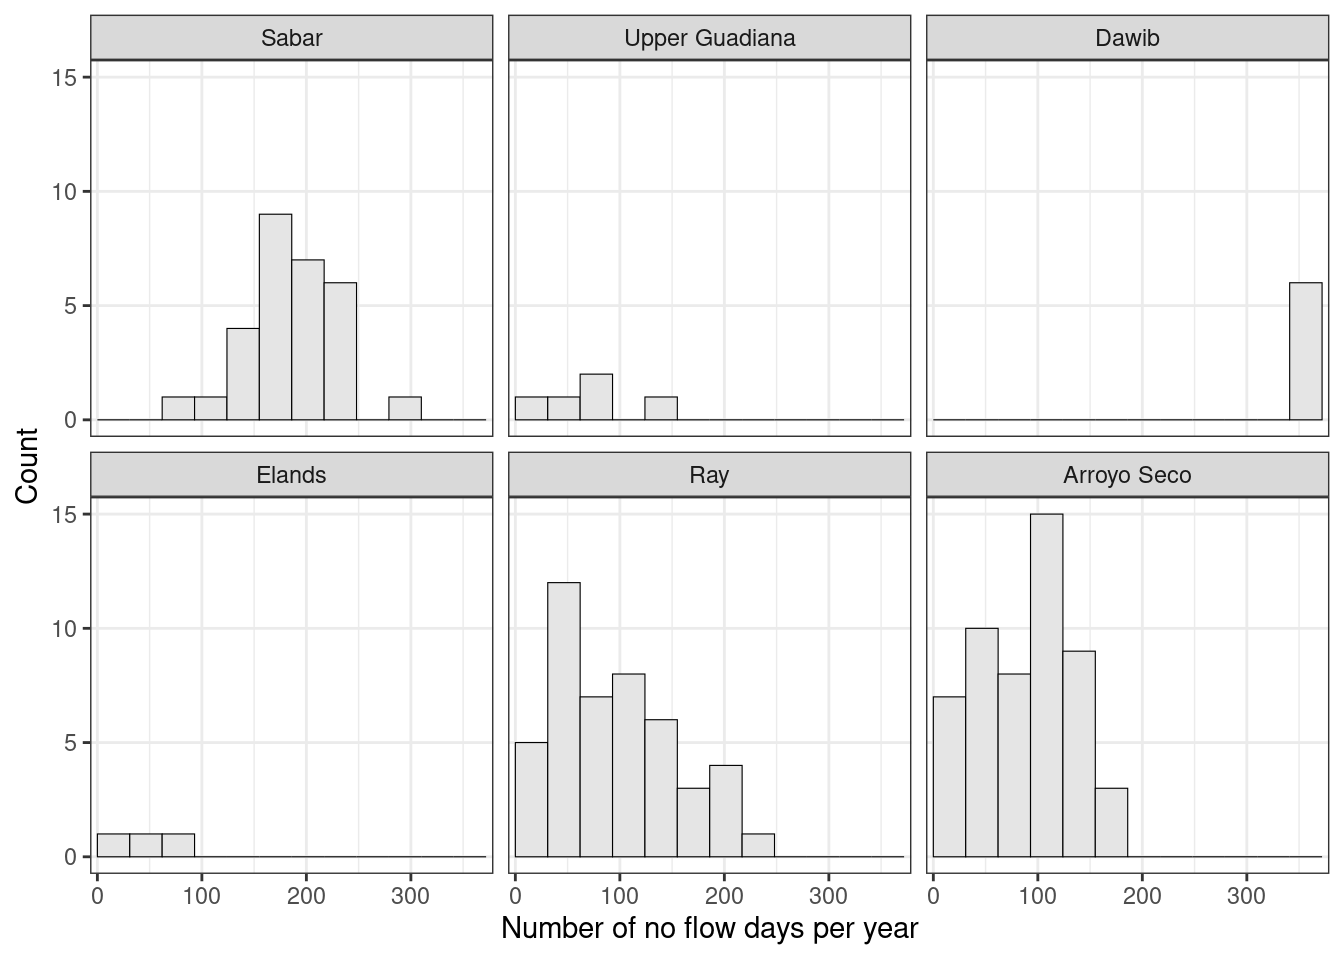
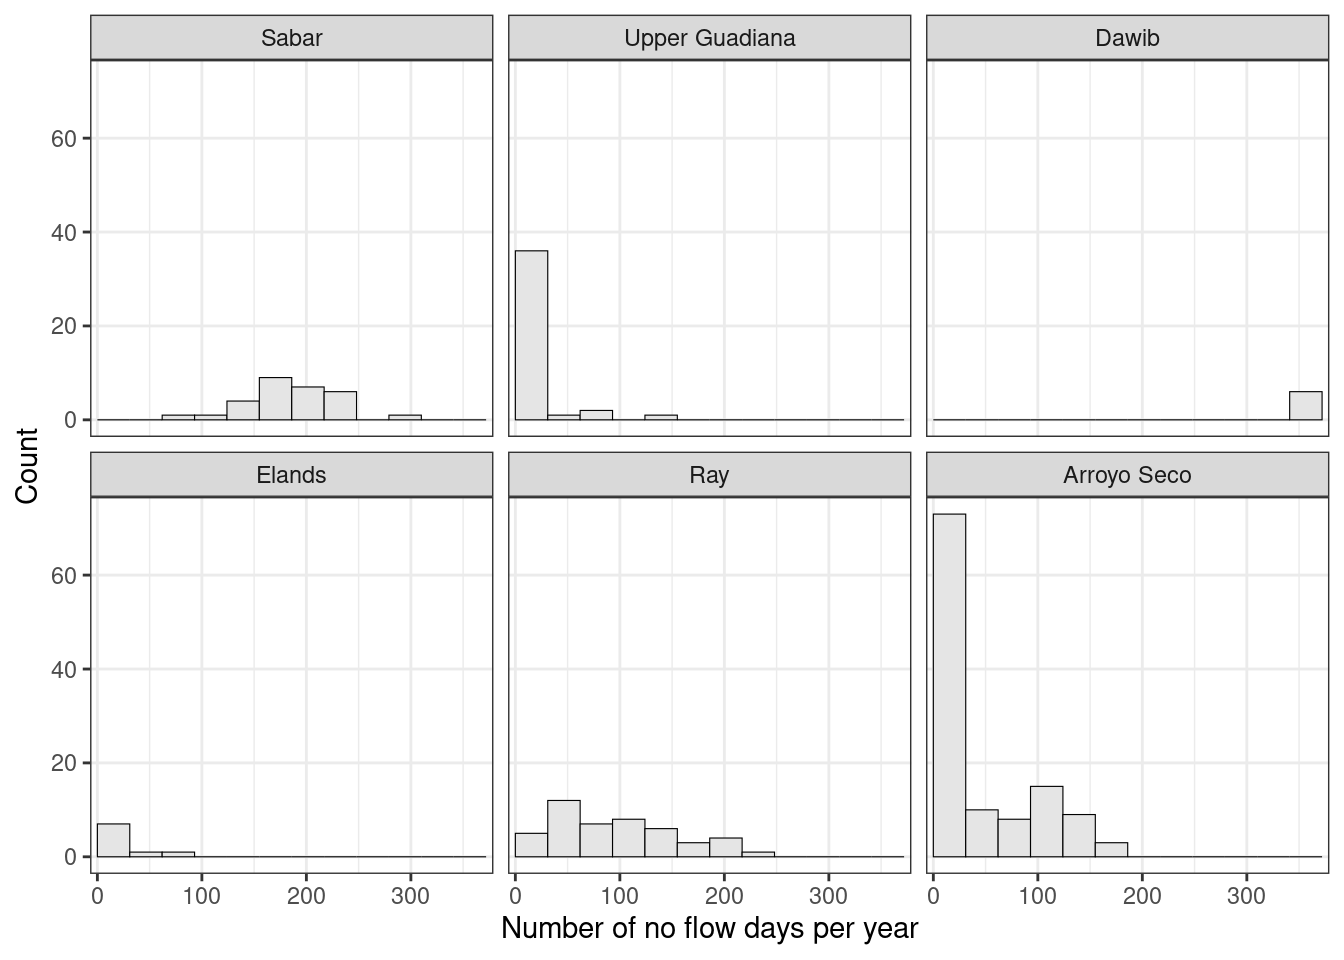
making agg_fun() in ires_metric() more flexible

diff --git a/worked_examples/html/5-8_no_flow_indices.html b/worked_examples/html/5-8_no_flow_indices.html
@@ -75,7 +75,6 @@ rivers &lt;- international %&gt;%
   filter(is.intermittent) %&gt;%
   mutate(
     clipped = map(data, remove_incomplete_first_last),
-    spells = map(clipped, ~ires_metric(.x$time, .x$discharge, na = &quot;drop_year&quot;))
   ) </code></pre>
 </div>
 <div id="computing-metrics" class="section level1">
@@ -93,14 +92,14 @@ metrics &lt;- intermittent %&gt;%
   unnest_wider(metrics) %&gt;%
   print()</code></pre>
 <pre><code>## # A tibble: 6 x 9
-##   river        `frac nf years`   MAN    CVAN `no flow days`   MAMD     onset `sd onset`     term.
-##   &lt;fct&gt;                  &lt;dbl&gt; &lt;dbl&gt;   &lt;dbl&gt; &lt;list&gt;          &lt;dbl&gt; &lt;month-d&gt;      &lt;dbl&gt; &lt;month-d&gt;
-## 1 Sabar                  1     185.  0.239   &lt;int [29]&gt;     168.      -05-12       60.0    -11-29
-## 2 Upper Guadi…           0.116  65   0.728   &lt;int [5]&gt;        8.12    -08-12       25.8    -10-14
-## 3 Dawib                  1     361.  0.00830 &lt;int [6]&gt;      298.      -01-01        0      -01-27
-## 4 Elands                 0.214  43.3 0.699   &lt;int [3]&gt;        7.89    -08-22       83.6    -09-04
-## 5 Ray                    0.945  98.2 0.576   &lt;int [46]&gt;      40.2     -05-14       52.8    -05-20
-## 6 Arroyo Seco            0.441  88.5 0.466   &lt;int [52]&gt;      38.3     -07-30       24.7    -10-24</code></pre>
+##   river       `frac nf years`    MAN    CVAN `no flow days`   MAMD     onset `sd onset`     term.
+##   &lt;fct&gt;                 &lt;dbl&gt;  &lt;dbl&gt;   &lt;dbl&gt; &lt;list&gt;          &lt;dbl&gt; &lt;month-d&gt;      &lt;dbl&gt; &lt;month-d&gt;
+## 1 Sabar                 1     185.   0.239   &lt;int [29]&gt;     168.      -05-12       60.0    -11-29
+## 2 Upper Guad…           0.116   8.12 3.26    &lt;int [40]&gt;       8.12    -08-12       25.8    -10-14
+## 3 Dawib                 1     361.   0.00830 &lt;int [6]&gt;      298.      -01-01        0      -01-27
+## 4 Elands                0.214  14.4  1.83    &lt;int [9]&gt;        7.89    -08-22       83.6    -09-04
+## 5 Ray                   0.945  98.2  0.576   &lt;int [46]&gt;      40.2     -05-14       52.8    -05-20
+## 6 Arroyo Seco           0.441  39.0  1.33    &lt;int [118]&gt;     38.3     -07-30       24.7    -10-24</code></pre>
 <pre class="r"><code>metrics %&gt;%
   select(river, n.days = `no flow days`) %&gt;%
   unnest(n.days) %&gt;%
@@ -117,37 +116,6 @@ metrics &lt;- intermittent %&gt;%
 </div>
 <div id="visualising-streamflow-permanence-spells" class="section level1">
 <h1><span class="header-section-number">4</span> Visualising streamflow permanence (spells)</h1>
-<pre class="r"><code>spells &lt;-intermittent %&gt;%
-  select(river, spells) %&gt;%
-  unnest(spells) %&gt;%
-  mutate(
-    year = water_year(time),
-    day = monthDay(time)
-  ) 
-
-onoff &lt;- metrics %&gt;%
-  select(river, &quot;mean onset&quot; = onset, &quot;mean termination&quot; = `term.`) %&gt;%
-  pivot_longer(-river, names_to = &quot;Timing&quot;)
-
-ggplot(spells, aes(monthDay(time), year, fill = state)) +
-  geom_tile() +
-  geom_vline(data = onoff, aes(xintercept = value, linetype = Timing), 
-             col = &quot;red&quot;, size = 0.2) + 
-  scale_x_month(expand = expansion(), nletters = 1) +
-  scale_y_continuous(expand = expansion(), breaks = breaks_integer()) +
-  scale_fill_manual(&quot;Spell&quot;, values = c(&quot;no-flow&quot; = &quot;grey80&quot;, &quot;flow&quot; = &quot;grey60&quot;, 
-                                        &quot;no-data&quot; = &quot;NA&quot;), 
-                    drop = FALSE) +
-  labs(title = &quot;Streamflow permanence&quot;) +
-  facet_wrap(vars(river), scales = &quot;free_y&quot;) +
-  guides(fill = guide_legend(override.aes = list(col = 1))) +
-  theme_bw() +
-  theme(panel.grid.major = element_blank(),
-        panel.grid.minor.y = element_blank(),
-        axis.ticks.x = element_blank(),
-        panel.ontop = TRUE,
-        panel.background = element_rect(fill = NA),
-        axis.title = element_blank())</code></pre>
 <p><img src="5-8_no_flow_indices_files/figure-html/unnamed-chunk-6-1.png" width="672"  /></p>
 </div>
 
